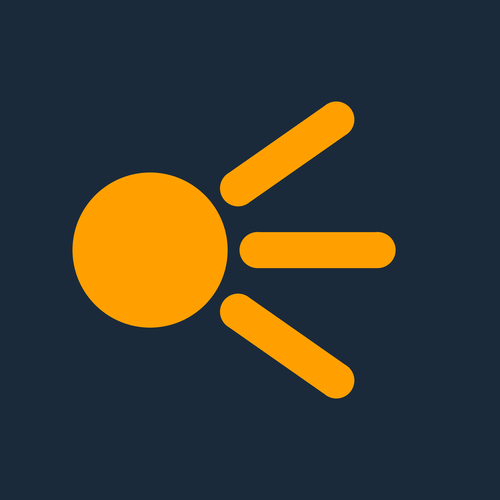
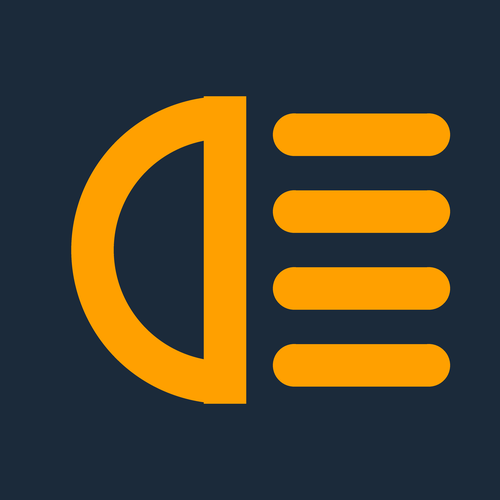
Les deux applications portent le meme phare, le cadre pour difference
Elles avaient deux dessins distincts, la lampe de poche pour le champ de
donnees et le phare pour l'application. Vus cote a cote dans le tableau
de bord du store, ils ne faisaient plus une famille : deux applications
d'un meme projet doivent se reconnaitre comme telles avant de se
distinguer l'une de l'autre.

Changed region(s): [[0.12, 0.18, 0.9, 0.81]]

diff --git a/tools/make-icons.py b/tools/make-icons.py
@@ -183,11 +183,16 @@ DRAWABLES_XML = """<!--
 
 
 def main():
-    # Deux dessins, un par binaire : la lampe de poche et son eventail pour le
-    # champ de donnees, le pictogramme de phare pour l'application. Ils etaient
-    # identiques a un cadre pres, et le cadre seul ne suffisait pas a les
-    # distinguer dans une liste ou ils se suivent.
-    for binary, frame, draw in (("app", None, draw_icon),
+    # **Le meme dessin pour les deux binaires**, le cadre pour seule difference.
+    #
+    # Ils ont porte deux dessins distincts — la lampe de poche et son eventail
+    # pour le champ de donnees, le phare pour l'application — au motif qu'un
+    # cadre seul ne suffisait pas a les distinguer. Vus cote a cote dans le
+    # tableau de bord du store, ils ne faisaient plus une famille : deux
+    # applications d'un meme projet doivent se reconnaitre comme telles avant de
+    # se distinguer l'une de l'autre. Le phare est celui des tuiles de la page
+    # de pilotage ; c'est le symbole du projet.
+    for binary, frame, draw in (("app", None, draw_headlight),
                                 ("widget", PANEL_FRAME, draw_headlight)):
         print("%s :" % binary)
         for size in sorted(SIZES):
